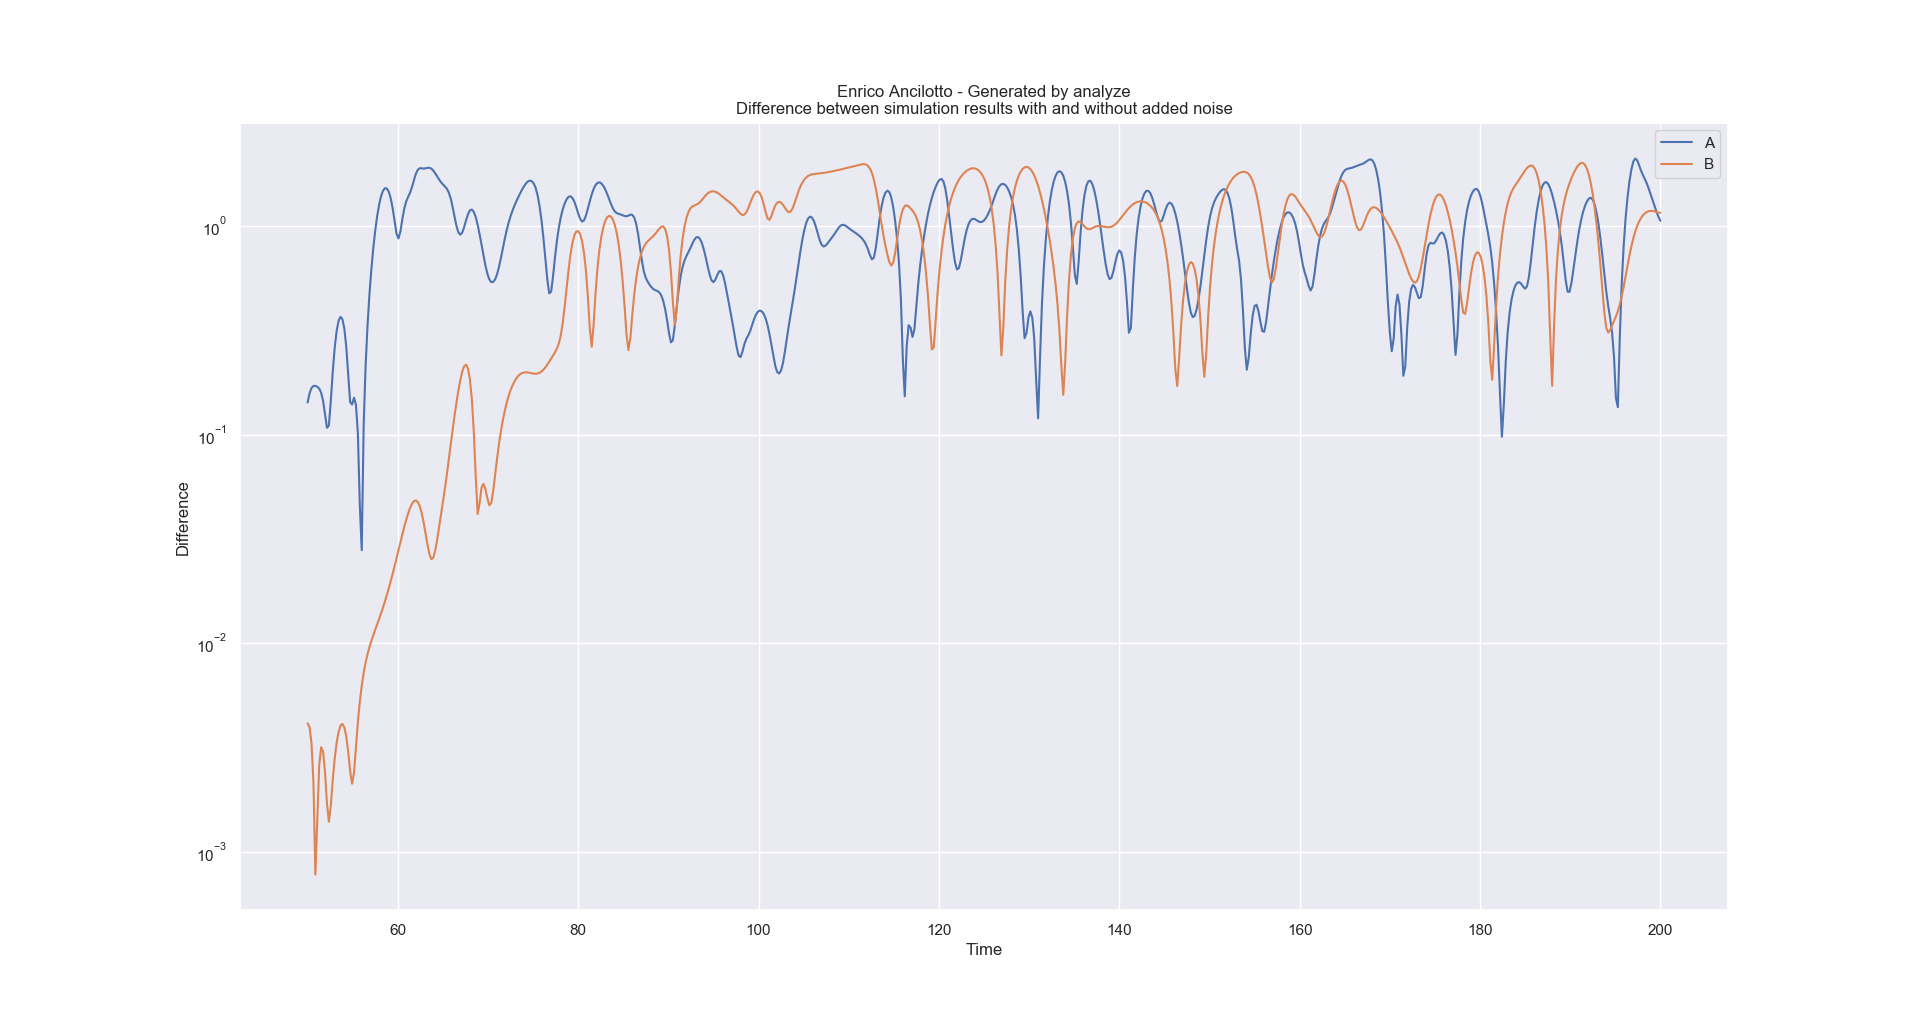
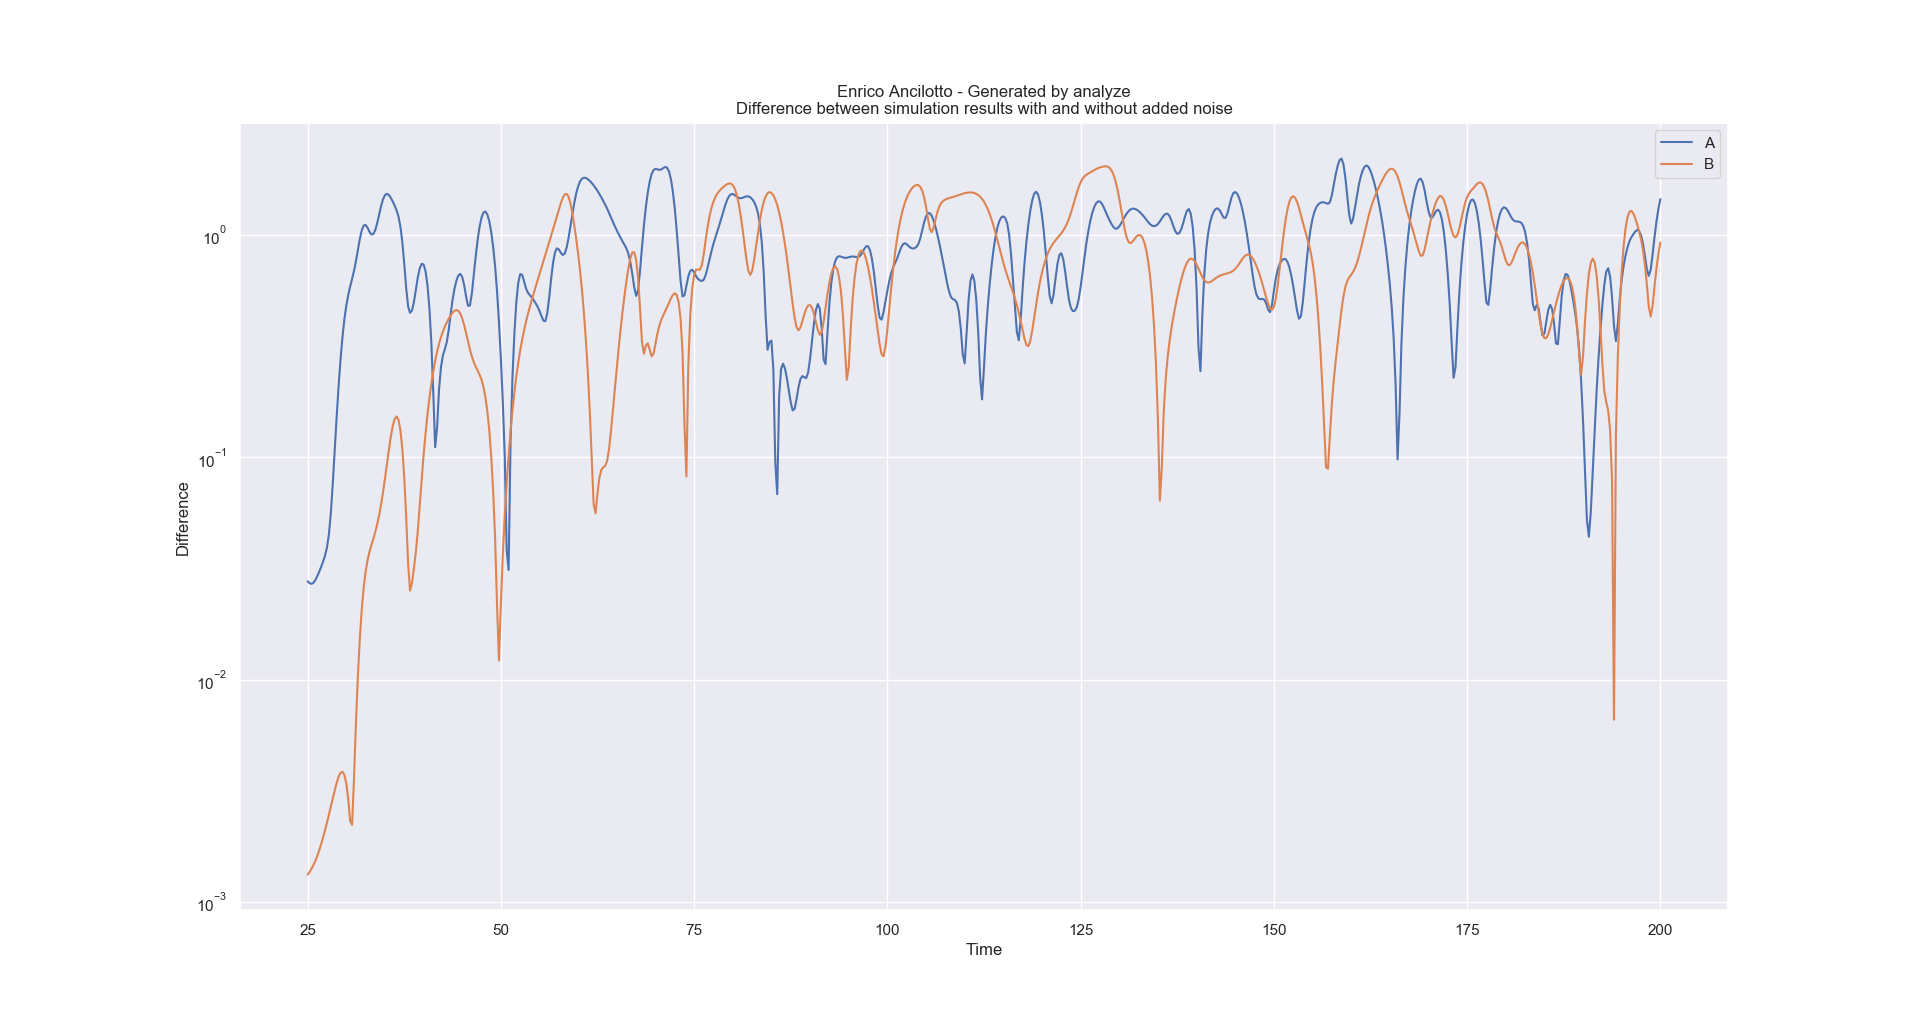
Finished analysis for p1

Changed region(s): [[0.1562, 0.1515, 0.875, 0.5758], [0.1562, 0.697, 0.1875, 0.8182], [0.0938, 0.2121, 0.125, 0.2424]]

diff --git a/p1.py b/p1.py
@@ -140,8 +140,35 @@ def analyze(gA=None,gAN=None,gB=None,gBN=None,startSavingAt=5):
     Question 1.2
     Add input/output as needed
 
-    Discussion: Figures 4 and 5 show the energy distribution of the various frequencies for both A and B (note that the displayed value is the logarithm of the energy for a certain frequency). As g is a complex value we can't simply discard the negative frequencies, however both graphs are mostly symmetric suggesting that the complex part isn't a crucial part of the signal. The energy level decays exponentially in both the positive and negative direction: most of the energy is concentrated in the lowest frequency waves. 
-    
+    Discussion: Figures 4 and 5 show the energy distribution of the various 
+    frequencies for both A and B (note that the displayed value is the logarithm 
+    of the energy for a certain frequency). As g is a complex value we can't 
+    simply discard the negative frequencies, however both graphs are mostly 
+    symmetric suggesting that the complex part isn't a crucial part of the 
+    signal. The energy level decays exponentially in both the positive and 
+    negative direction: most of the energy is concentrated in the lowest 
+    frequency waves. 
+
+    Figures 7 through 9 analyse the chaotic behaviour of the two cases. Figure 7 
+    plots the correlation dimension for both of them at two separate points in 
+    space. We get a fractal dimension of more than one in both cases indicating 
+    a chaotic behaviour since we are working with lines in 2D space (the two 
+    dimensions are given by real(g) and im(g)). However both times, the slope 
+    for A is slightly bigger than the one for B, indicating that the former is 
+    slightly more chaotic.
+
+    This finding is confirmed in figure 9 which shows the orbit diagram for the 
+    two cases. The orbits do cross for both, but as g(t+Delta t,x) depends not 
+    only on g(t,x) but also on g(t, x+Delta' x) this does not prevent aperiodic 
+    behaviour. But the orbit in case A is much less condensed around the main 
+    circle as would be expected for periodic data, so once again we see a 
+    slightly less chaotic behaviour for case B.
+
+    Finally in figure 8 we look at the difference that some noise makes for the 
+    two cases. In case B we can see exponential growth between t=25 and 40 
+    before the maximum difference is reached. A reaches this maximum level 
+    already at t = 30 (most of the exponential growth happens before t=25) 
+    suggesting a quicker divergence, and so once again, more chaotic behaviour.
     """
     count = 0
     if gA == None:
@@ -154,14 +181,14 @@ def analyze(gA=None,gAN=None,gB=None,gBN=None,startSavingAt=5):
         gBN = np.load("gBN.npy")
 
     tstar=200
-    xstar = 128
+    xstar = 64
     T=200
-    Tstart = 50
+    Tstart = 25
     Nt,Nx=gA.shape
     L=100
     t = np.linspace(Tstart,T,Nt)
 
-    """w2B, Pxx2B = welch(gB,return_onesided=False)
+    w2B, Pxx2B = welch(gB,return_onesided=False)
     w2A, Pxx2A = welch(gA,return_onesided=False)
 
     w2B = np.fft.fftshift(w2B*Nx/L*2*np.pi)
@@ -257,7 +284,8 @@ def analyze(gA=None,gAN=None,gB=None,gBN=None,startSavingAt=5):
     plt.title("Enrico Ancilotto - Generated by analyze\nDifference between simulation results with and without added noise")
     plt.savefig("fig"+str(startSavingAt+count)+".png", bbox_inches='tight')
     count+=1
-    plt.show()"""
+    plt.show()
+
     f, axes = plt.subplots(1, 2, sharey=True)
     axes = axes.flatten()
     axes[0].plot(gA[:,xstar].real, gA[:,xstar].imag)
@@ -342,7 +370,54 @@ def wavediff(g=None,startSavingAt=1):
     Question 1.3
     Add input/output as needed
 
-    Discussion: Add discussion here
+    Discussion:
+    In figure 1 we look at the difference between the computed derivatives for 
+    the two methods using a very fine grid (Nx=512). The two methods give a very 
+    similar answer in the centre of the interval, however we get a large spike 
+    in the error at the edges; this is to be expected since the finite 
+    difference method should be less accurate there. 
+
+    This is actually confirmed in the next figure: a coarser grid is used for g 
+    (either 128 or 256) and we compare the value of dg/dx for the two methods 
+    with the average between the precise derivatives computed for figure 1. 
+    Using this method we can only be as precise as in the first case, in 
+    particular we can't hope for a precision of more than 10^-4 at the edges, 
+    both the finite difference computations see a spike bigger than that, while 
+    none of the Fourier do, staying in line with the behaviour in the centre. 
+    Thus the Fourier derivative will give us a more consistent accuracy. This is 
+    used for figure 3, instead of comparing to the average of the two 
+    derivatives, we only compare the coarser derivatives to the finer Fourier 
+    one. We can clearly see that the two give us about the same precision in the 
+    centre with the error of the finite much less consistent. However the 
+    Fourier method manages to maintain the same error on the edge, while finite 
+    differences see a very big spike. It is also interesting to note that the 
+    graphs for the finite difference methods have very similar behaviour (the 
+    peaks and troughs align), albeit with the finer one giving a much smaller 
+    error.
+
+    In figure 4 we also consider the execution time needed for the two methods. 
+    They both need a setup, in the Fourier case we need to compute the value of 
+    k, while for finite differences we need the two matrices. These are quite 
+    time-consuming operations, however in most cases they can be precomputed and 
+    so might not need to be considered if the differentiation is to be repeated. 
+
+    In both cases Fourier differentiation is much quicker, especially when no 
+    setup is allowed (admittedly the creation of the matrices might not have 
+    been implemented in the most efficient of ways). This seems to contradict 
+    the asymptotic time complexity calculations: O(NlogN) for FFT and 
+    O(N*i + N*j) for finite difference methods (here i is the number of non-zero 
+    diagonals in the left matrix which needs to be inverted and j the same value 
+    for the right matrix which has to be multiplied by a vector), since i,j << N 
+    we get O(N) in this case. However asymptotic run time analysis is exactly 
+    that: asymptotic. It doesn't tell us the behaviour for small N, and clearly 
+    even N=512 is too small for the logN term to make a difference. Thus we 
+    probably have much smaller coefficients for the Fourier case meaning that in 
+    practice it will be more useful.
+
+    All things considered, Fourier differentiation gives a faster, more reliable 
+    way to differentiate functions that doesn't give huge errors on the boundary.
+    Its main drawback is its limitations to periodic functions that vanish on
+    the boundary. But if this is the case it should always be preferred.
     """
     L=100
     if g == None:
@@ -480,16 +555,16 @@ def init():
         np.save("gLong.npy",g)
 
     if not os.path.isfile("./gA.npy"):
-        gA,gAN = nwaveNoise(1-2j,1+2j,display=False)
+        gA,gAN = nwaveNoise(1-2j,1+2j)
         gA = gA[100:]
         gAN = gAN[100:]
         np.save("gA.npy",gA)
         np.save("gAN.npy",gAN)
 
     if not os.path.isfile("./gB.npy"):
-        g,gN = nwaveNoise(1-1j,1+2j,display=False)
-        g = g[100:]
-        gN = gN[100:]
+        g,gN = nwaveNoise(1-1j,1+2j)
+        g = g[200:]
+        gN = gN[200:]
         np.save("gB.npy",g)
         np.save("gBN.npy",gN)
 
